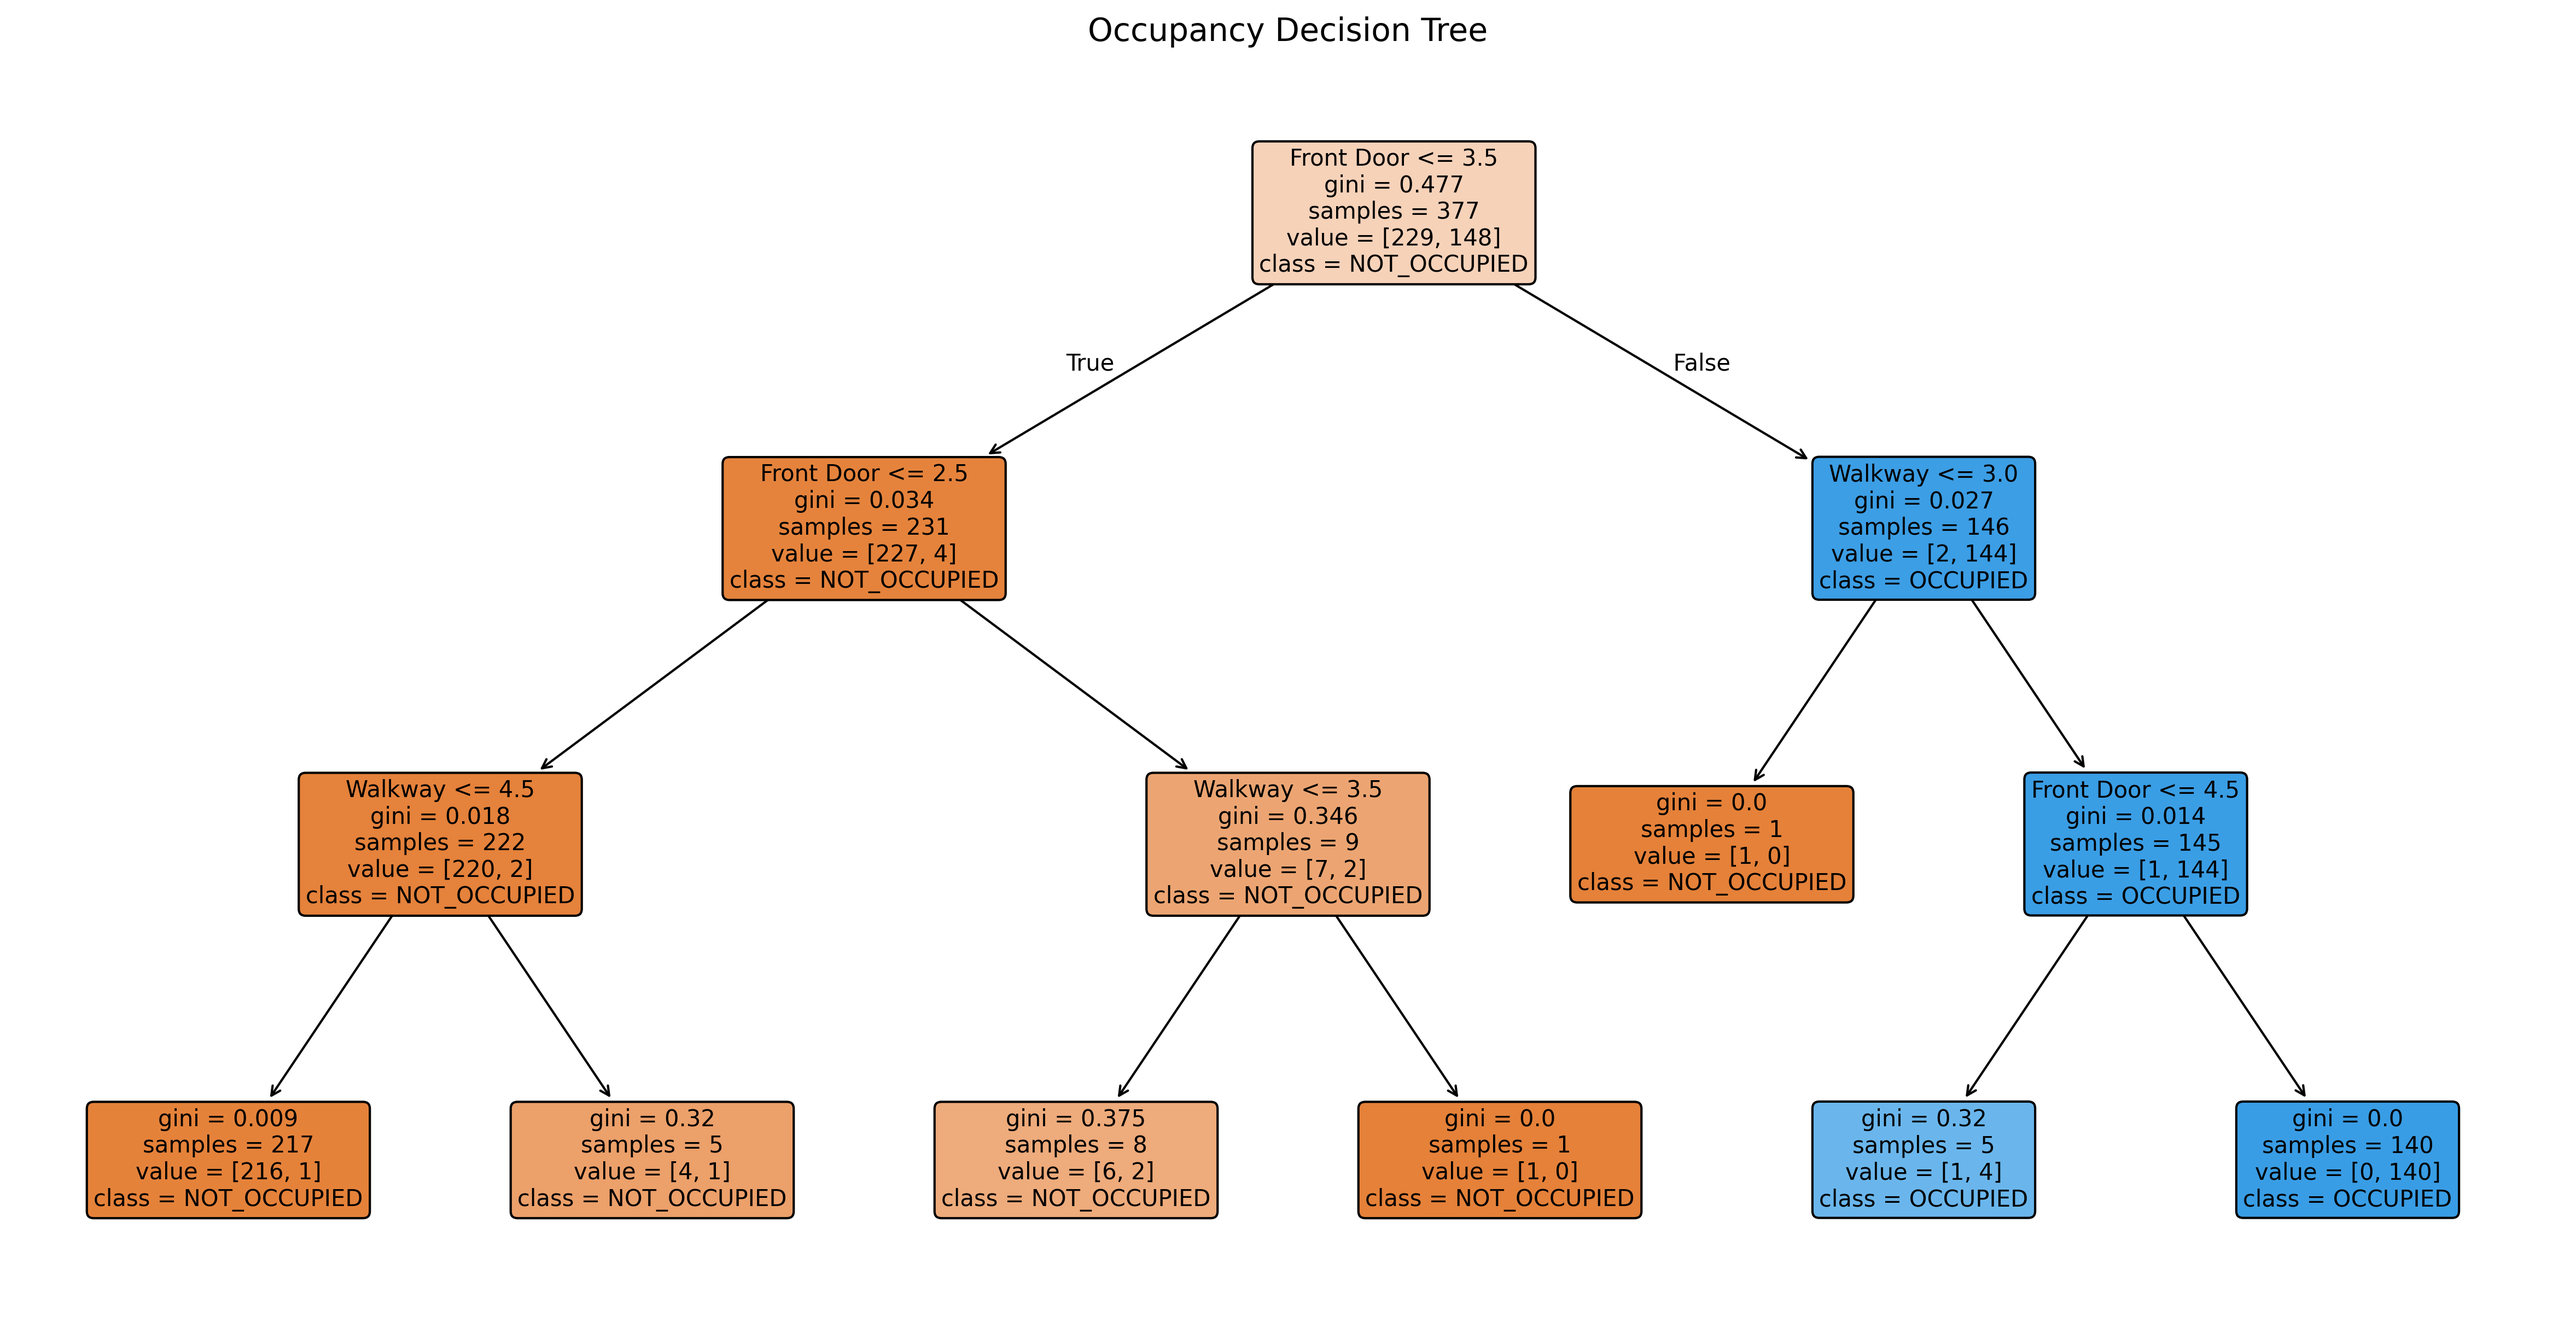
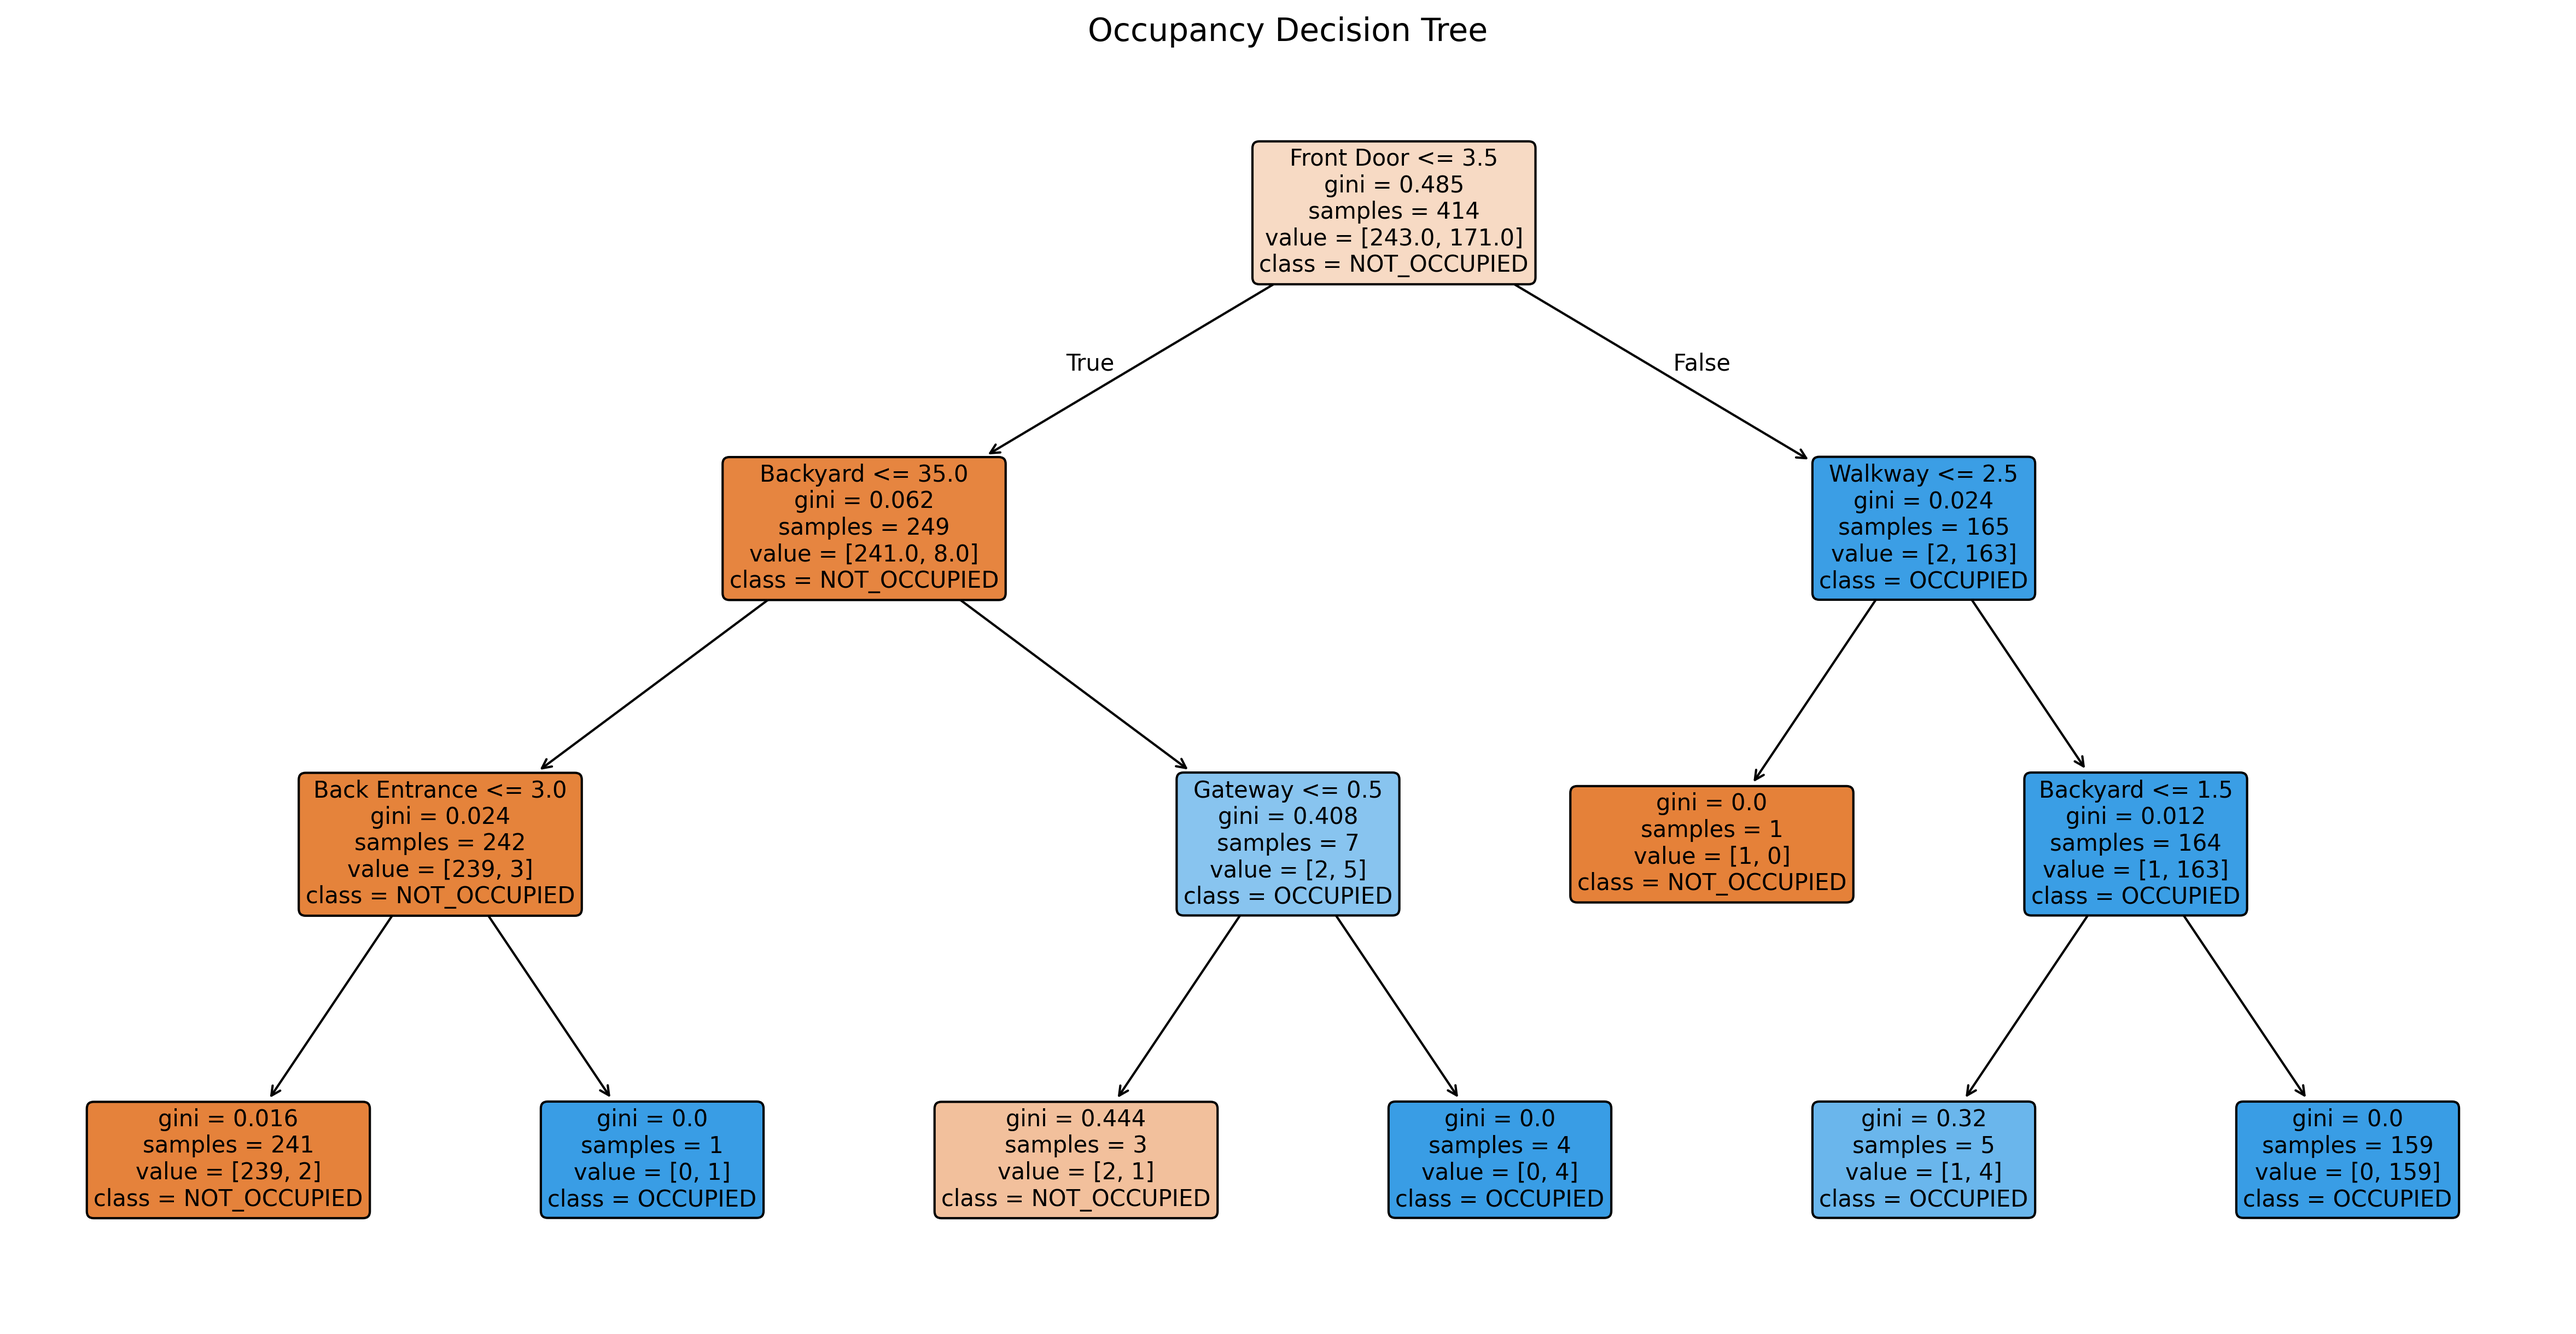
Improved reporting of occupancy classification data and results

diff --git a/event_count_chart.html b/event_count_chart.html
@@ -82,7 +82,7 @@
     // ---- CONFIGURATION - EDIT THESE VALUES ----
 
     // Input your raw daily counts here (just the counts, dates will be generated)
-    const rawDailyCounts = [372, 119, 103, 191, 58, 54, 81, 84, 60, 98, 83, 67, 100, 132, 94, 193, 171, 163, 171, 117, 95, 179, 117];
+    const rawDailyCounts = [372, 119, 103, 191, 58, 54, 81, 84, 60, 98, 83, 67, 100, 132, 94, 193, 171, 163, 171, 117, 95, 179, 117, 213, 120];
 
     // Specify the start date of your data
     const startDate = { day: 10, month: 3, year: 2025, dayOfWeek: 'Mon' };

diff --git a/test_occupancy_ml.py b/test_occupancy_ml.py
@@ -14,17 +14,14 @@ This script demonstrates how to:
 8. Visualize the decision boundaries for 2D models
 """
 
-import csv
 import json
 import logging
 import os
 import re
 import sys
-from datetime import datetime
 
 import pandas as pd
 import plotly.graph_objects as go
-from sklearn.metrics import accuracy_score, classification_report
 
 from logging_config import (
     create_logger,
@@ -76,37 +73,14 @@ def load_video_data():
 
     # Filter to keep only important columns (make sure that "Date" is always included)
 
-    # important_columns = [
-    #    "Date",
-    #    "Front Door",
-    #    "Walkway",
-    #    "Backyard",
-    #    "Back Entrance",
-    # ]  # Perfect model
-
-    # important_columns = [
-    #    "Date",
-    #    "Front Door",
-    #    "Walkway",
-    #    "Backyard",
-    # ]  # 2 errors: 2024-10-12 and 2024-12-11
-
-    # important_columns = [
-    #    "Date",
-    #    "Front Door",
-    #    "Walkway",
-    #    "Back Entrance",
-    # ]  # 1 error: 2024-12-10
-
     important_columns = [
         "Date",
-        "Front Door",
-        "Walkway",
-    ]  # 5 errors: 2024-03-19, 2024-10-12, 2024-12-11, 2024-12-26, 2024-12-28
-
-    # 2024-12-11 and 2024-10-12: seem to directly depend on Back Entrance. Both identified as NOT OCCUPIED.
-    # 2024-12-10 is strange. Not strictly depending on Backyard, but Back Entrance not enough.
-    # 2024-12-28, 2024-12-26 are also strange, both identified as NOT OCCUPIED. 2024-03-19 is thought to be OCCUPIED
+        "Front Door",  # 404/414
+        "Backyard",  # 409/414
+        "Gateway",  # 409/414
+        "Walkway",  # 409/414
+        "Back Entrance",  # 410/414
+    ]  # Best model
 
     filtered_columns = [
         col for col in daily_activity_data.columns if col in important_columns
@@ -118,7 +92,9 @@ def load_video_data():
     return daily_activity_data
 
 
-def compare_occupancy_methods(calendar_occupancy, heuristic_occupancy, ml_occupancy):
+def compare_occupancy_methods(
+    calendar_occupancy, heuristic_occupancy, ml_occupancy, daily_data=None
+):
     """
     Compare the occupancy status determined by different methods.
 
@@ -126,6 +102,7 @@ def compare_occupancy_methods(calendar_occupancy, heuristic_occupancy, ml_occupa
         calendar_occupancy: Occupancy status from the calendar
         heuristic_occupancy: Occupancy status from the heuristic method
         ml_occupancy: Occupancy status from the machine learning model
+        daily_data: DataFrame containing daily activity data
 
     Returns:
         DataFrame with comparison results
@@ -137,19 +114,32 @@ def compare_occupancy_methods(calendar_occupancy, heuristic_occupancy, ml_occupa
 
     # Create comparison data
     comparison_data = []
+
+    # Create a date lookup dictionary from daily_data if provided
+    daily_data_dict = {}
+    if daily_data is not None:
+        for _, row in daily_data.iterrows():
+            date_str = row["Date"].strftime("%Y-%m-%d")
+            daily_data_dict[date_str] = row
+
     for date_str in sorted(all_dates):
-        comparison_data.append(
-            {
-                "date": date_str,
-                "calendar": calendar_occupancy.get(
-                    date_str, OccupancyStatus.UNKNOWN
-                ).value,
-                "heuristic": heuristic_occupancy.get(
-                    date_str, OccupancyStatus.UNKNOWN
-                ).value,
-                "ml_model": ml_occupancy.get(date_str, OccupancyStatus.UNKNOWN).value,
-            }
-        )
+        data_entry = {
+            "date": date_str,
+            "calendar": calendar_occupancy.get(date_str, OccupancyStatus.UNKNOWN).value,
+            "heuristic": heuristic_occupancy.get(
+                date_str, OccupancyStatus.UNKNOWN
+            ).value,
+            "ml_model": ml_occupancy.get(date_str, OccupancyStatus.UNKNOWN).value,
+        }
+
+        # Add daily activity data if provided and date exists in daily_data
+        if daily_data is not None and date_str in daily_data_dict:
+            # Add all columns except 'Date' from daily_data
+            for col in daily_data.columns:
+                if col != "Date":
+                    data_entry[col] = daily_data_dict[date_str][col]
+
+        comparison_data.append(data_entry)
 
     return pd.DataFrame(comparison_data)
 
@@ -682,14 +672,17 @@ def main():
     heuristic_occupancy = Occupancy(mode=OccupancyMode.HEURISTIC, daily_data=daily_data)
     heuristic_status = heuristic_occupancy.occupancy_cache.copy()
 
+    random_state = 500
+    max_depth = 3
+
     try:
         # 3. Train models using different methods
 
         # Simple train-test split (original method)
         simple_params = {
-            "random_state": 50,  # Try different random seeds to see the effect
+            "random_state": random_state,  # Try different random seeds to see the effect
             "test_size": 0.2,
-            "max_depth": 3,  # Limit tree depth for simplicity
+            "max_depth": max_depth,  # Limit tree depth for simplicity
         }
         simple_occupancy, simple_metrics, simple_model_file = train_and_evaluate_model(
             daily_data,
@@ -700,9 +693,9 @@ def main():
 
         # Cross-validation
         cv_params = {
-            "random_state": 50,
+            "random_state": random_state,
             "cv_folds": 5,
-            "max_depth": 3,
+            "max_depth": max_depth,
         }
         cv_occupancy, cv_metrics, cv_model_file = train_and_evaluate_model(
             daily_data,
@@ -713,8 +706,8 @@ def main():
 
         # Leave-one-out cross-validation
         loo_params = {
-            "random_state": 50,
-            "max_depth": 3,
+            "random_state": random_state,
+            "max_depth": max_depth,
         }
         loo_occupancy, loo_metrics, loo_model_file = train_and_evaluate_model(
             daily_data,
@@ -723,34 +716,21 @@ def main():
             params=loo_params,
         )
 
-        # Grid search with cross-validation
-        grid_params = {
-            "random_state": 50,
-            "cv_folds": 5,
-        }
-        grid_occupancy, grid_metrics, grid_model_file = train_and_evaluate_model(
-            daily_data,
-            out_dir=out_dir,
-            method="grid_search",
-            params=grid_params,
-        )
-
         # 4. Compare the results of different methods
         logger.info("\nComparing model accuracies:")
         logger.info(f"  Simple train-test split: {simple_metrics['accuracy']:.2f}")
         logger.info(f"  Cross-validation: {cv_metrics['accuracy']:.2f}")
         logger.info(f"  Leave-one-out: {loo_metrics['accuracy']:.2f}")
-        logger.info(f"  Grid search: {grid_metrics['accuracy']:.2f}")
 
-        # 5. Use the best model for prediction (in this case, we'll use the grid search model)
-        logger.info("\nUsing grid search model for prediction...")
+        # 5. Use the best model for prediction (in this case, we'll use the Leave-one-out cross-validation)
+        logger.info("\nUsing Leave-one-out cross-validation model for prediction...")
 
         # Load the model from the file
-        logger.info(f"Loading model from {grid_model_file}...")
+        logger.info(f"Loading model from {loo_model_file}...")
         best_occupancy = Occupancy(
             mode=OccupancyMode.ML_MODEL,
             daily_data=daily_data,
-            model_filepath=grid_model_file,
+            model_filepath=loo_model_file,
         )
 
         # Apply the model to predict occupancy status
@@ -761,13 +741,24 @@ def main():
         # 6. Compare with calendar and heuristic methods
         logger.info("Comparing occupancy methods...")
         comparison_df = compare_occupancy_methods(
-            calendar_status, heuristic_status, ml_status
+            calendar_status, heuristic_status, ml_status, daily_data
         )
 
         # Save comparison results to CSV
         comparison_file = os.path.join(out_dir, "occupancy_comparison.csv")
         logger.info(f"Saving comparison results to {comparison_file}...")
         comparison_df.to_csv(comparison_file, index=False)
+
+        # Create a filtered DataFrame for errors (where heuristic or ml_model differs from calendar)
+        errors_df = comparison_df[
+            (comparison_df["calendar"] != comparison_df["heuristic"])
+            | (comparison_df["calendar"] != comparison_df["ml_model"])
+        ]
+
+        # Save errors to a separate CSV file
+        errors_file = os.path.join(out_dir, "occupancy_comparison_errors.csv")
+        logger.info(f"Saving error cases to {errors_file}...")
+        errors_df.to_csv(errors_file, index=False)
 
         # Calculate and print accuracy metrics
         accuracy_metrics = calculate_accuracy(comparison_df)
@@ -784,6 +775,10 @@ def main():
         # Print sample of comparison results
         logger.info("Sample of comparison results:")
         print(comparison_df.head(10))
+
+        # Print sample of comparison results
+        logger.info("Sample of comparison results for errors:")
+        print(errors_df.head(10))
 
         # 7. Visualize decision boundaries if we have a 2D model
         logger.info("Creating decision boundary visualization...")

diff --git a/occupancy.py b/occupancy.py
@@ -182,8 +182,8 @@ class Occupancy:
         ("2024-12-26", "2025-01-08", OccupancyStatus.OCCUPIED),
         ("2025-01-09", "2025-03-05", OccupancyStatus.NOT_OCCUPIED),
         ("2025-03-06", "2025-03-10", OccupancyStatus.OCCUPIED),
-        # ("2025-03-11", "2025-03-24", OccupancyStatus.NOT_OCCUPIED),
-        # ("2025-03-25", "2025-04-15", OccupancyStatus.OCCUPIED),
+        ("2025-03-11", "2025-03-24", OccupancyStatus.NOT_OCCUPIED),
+        ("2025-03-25", "2025-04-17", OccupancyStatus.OCCUPIED),
     ]
 
     def __init__(
@@ -288,9 +288,14 @@ class Occupancy:
 
         for _, row in daily_data.iterrows():
             date_str = row["Date"].strftime("%Y-%m-%d")
+            fd = row.get("Front Door", 0)
+            by = row.get("Backyard", 0)
+            be = row.get("Back Entrance", 0)
+            gw = row.get("Gateway", 0)
+            ww = row.get("Walkway", 0)
 
             # Set occupancy status using the decision function
-            if row.get("Front Door", 0) >= 4 and row.get("Walkway", 0) >= 4:
+            if (fd >= 4 and ww >= 3) or (by >= 36 and gw >= 1) or (be >= 4):
                 self.occupancy_cache[date_str] = OccupancyStatus.OCCUPIED
             else:
                 self.occupancy_cache[date_str] = OccupancyStatus.NOT_OCCUPIED
@@ -800,9 +805,12 @@ if __name__ == "__main__":
     daily_data = daily_data[metric]
     important_columns = [
         "Date",
-        "Front Door",
-        "Walkway",
-    ]
+        "Front Door",  # 404/414
+        "Backyard",  # 409/414
+        "Gateway",  # 409/414
+        "Walkway",  # 409/414
+        "Back Entrance",  # 410/414
+    ]  # Best model
     filtered_columns = [col for col in daily_data.columns if col in important_columns]
     daily_data = daily_data[filtered_columns]
 
@@ -828,7 +836,14 @@ if __name__ == "__main__":
 
     # Train and save a new model from daily activity data
     occupancy_ml_train = Occupancy()
-    occupancy_ml_train.train_occupancy_model(daily_data, method="grid_search")
+    # Leave-one-out cross-validation
+    params = {
+        "random_state": 500,
+        "max_depth": 3,
+    }
+    occupancy_ml_train.train_occupancy_model(
+        daily_data, method="leave_one_out", **params
+    )
     occupancy_ml_train.save_occupancy_model(model_file)
     occupancy_ml_train.set_occupancy_status_from_daily_activity(daily_data)
     write_csv(

diff --git a/story_creator.py b/story_creator.py
@@ -380,15 +380,17 @@ class Story:
         self.to_file(config_filename)
         VideoMetadata.export_videos_to_metadata_file(videos, video_metadata_file)
         VideoMetadata.export_videos_to_playlist_file(videos, playlist_filename)
-        Dashboard().create_graphs_file(videos, graphs_filename)
-        PlotCreator.create_graphs_file(videos, scatter_plots_filename)
 
         logger.info(f"{colored("Output Files:","light_cyan")}")
         logger.info(f"  - config file:        {config_filename}")
         logger.info(f"  - metadata file:      {video_metadata_file}")
         logger.info(f"  - playlist file:      {playlist_filename}")
-        logger.info(f"  - graphs file:        {graphs_filename}")
-        logger.info(f"  - scatter plots file: {scatter_plots_filename}")
+
+        if len(videos) > 0:
+            Dashboard().create_graphs_file(videos, graphs_filename)
+            PlotCreator.create_graphs_file(videos, scatter_plots_filename)
+            logger.info(f"  - graphs file:        {graphs_filename}")
+            logger.info(f"  - scatter plots file: {scatter_plots_filename}")
 
     def process_new_tags(
         self, videos: List[VideoMetadata], output_directory: str
@@ -474,6 +476,9 @@ class Story:
 
         # Generate statistics and analytics
         self.generate_statistics_files(videos, output_directory)
+
+        if len(videos) == 0:
+            return
 
         # Process video tags
         self.process_new_tags(videos, output_directory)
